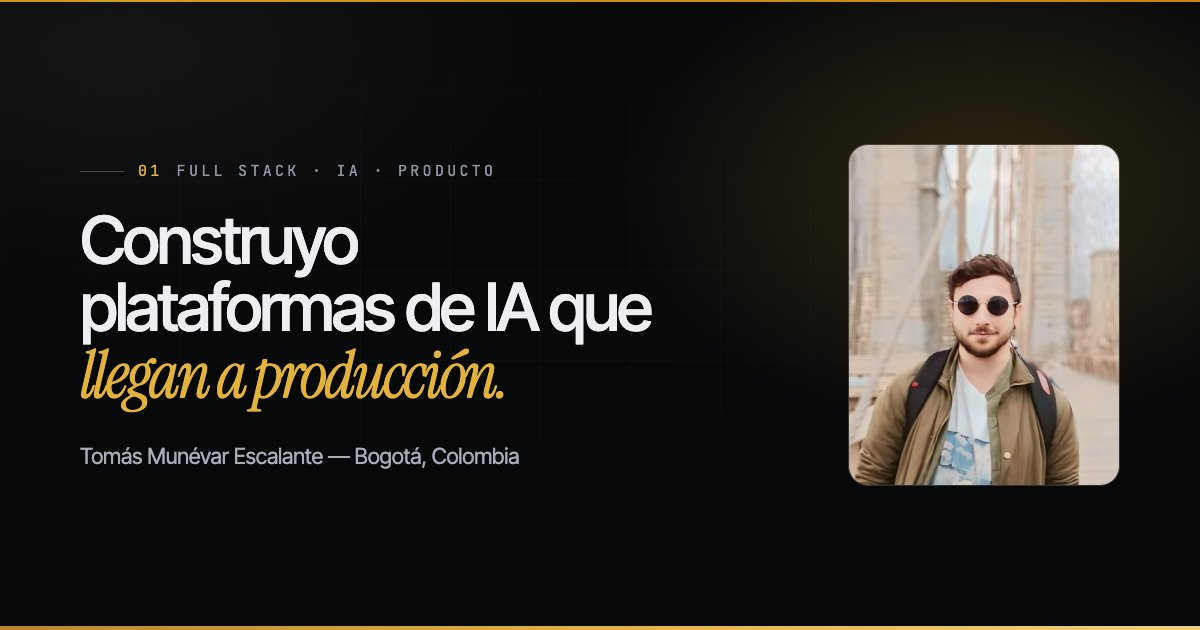
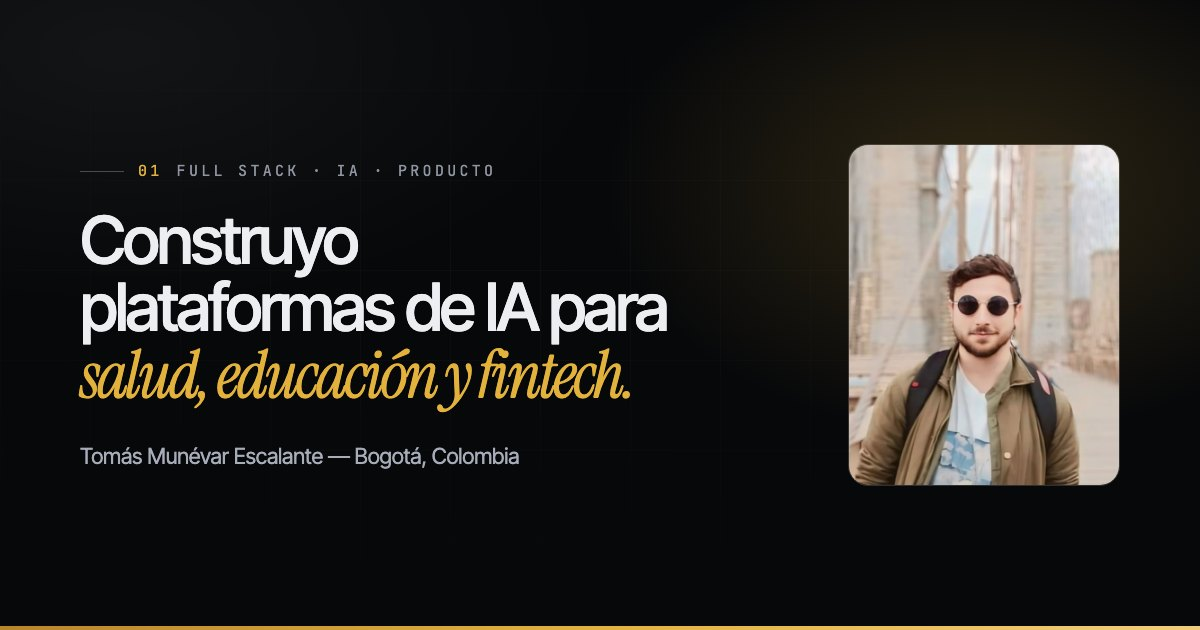
Bajar el tono: describir el trabajo en vez de calificarlo
"Construyo plataformas de IA que llegan a producción" presume de algo que los
proyectos de más abajo ya demuestran, y el "que llegan" da a entender que lo
normal es lo contrario. Ahora dice para qué sectores son: salud, educación y
fintech, que además le sirve a quien lee para ubicarlo de una.

El mismo tic estaba en tres sitios más y se quita en todos:
- "agentes de IA que hacen trabajo real" → "agentes de IA"
- "Agentes que hacen trabajo real, no demos." → fuera; el detalle técnico que
  sigue es la prueba
- "Plataformas reales, con usuarios reales." → fuera

Se regenera og.jpg, que llevaba el titular anterior incrustado.

Changed region(s): [[0.0617, 0.4524, 0.555, 0.6635], [0.0, 0.0, 1.0, 0.0302]]

diff --git a/src/data/content.js b/src/data/content.js
@@ -164,11 +164,11 @@ export const content = {
 
     hero: {
       eyebrow: 'Full Stack · IA · Producto',
-      titleA: 'Construyo plataformas de IA que ',
-      titleAccent: 'llegan a producción.',
+      titleA: 'Construyo plataformas de IA para ',
+      titleAccent: 'salud, educación y fintech.',
       titleB: '',
       roles: ['Full Stack Engineer', 'AI / LLM Engineer', 'Product Engineer'],
-      lede: '+4 años construyendo producto de punta a punta: TypeScript, agentes de IA que hacen trabajo real y la infraestructura que los mantiene en pie. Hoy trabajo con la Pontificia Universidad Javeriana, ConsiliumBots y Tether Studio en plataformas que usan gobiernos, colegios y clínicas.',
+      lede: '+4 años construyendo producto de punta a punta: TypeScript, agentes de IA y la infraestructura que los mantiene en pie. Hoy trabajo con la Pontificia Universidad Javeriana, ConsiliumBots y Tether Studio en plataformas que usan gobiernos, colegios y clínicas.',
       ctaWork: 'Ver el trabajo',
       ctaTalk: 'Hablemos',
       available: 'Abierto a roles senior · remoto',
@@ -215,7 +215,7 @@ export const content = {
       items: [
         {
           title: 'Sistemas de IA en producción',
-          body: 'Agentes que hacen trabajo real, no demos. Orquestación multi-modelo (Anthropic, OpenAI, Gemini) con LangChain y LangSmith, voz con Deepgram y ElevenLabs, versionado de prompts con diff y rollback, dry-run cuando falta un secreto y topes de gasto por día.',
+          body: 'Orquestación multi-modelo (Anthropic, OpenAI, Gemini) con LangChain y LangSmith, voz con Deepgram y ElevenLabs, versionado de prompts con diff y rollback, dry-run cuando falta un secreto y topes de gasto por día.',
           tags: ['LangChain', 'Anthropic', 'OpenAI', 'Gemini', 'Deepgram', 'ElevenLabs', 'RAG', 'Evals']
         },
         {
@@ -239,8 +239,7 @@ export const content = {
     work: {
       eyebrow: 'Trabajo seleccionado',
       title: 'Siete que valen la pena contar.',
-      subtitle:
-        'Plataformas reales, con usuarios reales. Algunas son código propietario: cuento lo que puedo contar.',
+      subtitle: 'Algunas son código propietario: cuento lo que puedo contar.',
       viewCase: 'Ver el caso',
       visit: 'Visitar sitio',
       repo: 'Repositorio',
@@ -482,11 +481,11 @@ export const content = {
 
     hero: {
       eyebrow: 'Full Stack · AI · Product',
-      titleA: 'I build AI platforms that ',
-      titleAccent: 'actually ship.',
+      titleA: 'I build AI platforms for ',
+      titleAccent: 'health, education and fintech.',
       titleB: '',
       roles: ['Full Stack Engineer', 'AI / LLM Engineer', 'Product Engineer'],
-      lede: '+4 years building product end to end: TypeScript, AI agents that do real work, and the infrastructure that keeps them standing. Today I work with Pontificia Universidad Javeriana, ConsiliumBots and Tether Studio on platforms used by governments, schools and clinics.',
+      lede: '+4 years building product end to end: TypeScript, AI agents, and the infrastructure that keeps them standing. Today I work with Pontificia Universidad Javeriana, ConsiliumBots and Tether Studio on platforms used by governments, schools and clinics.',
       ctaWork: 'See the work',
       ctaTalk: "Let's talk",
       available: 'Open to senior roles · remote',
@@ -533,7 +532,7 @@ export const content = {
       items: [
         {
           title: 'AI systems in production',
-          body: 'Agents that do real work, not demos. Multi-model orchestration (Anthropic, OpenAI, Gemini) with LangChain and LangSmith, voice with Deepgram and ElevenLabs, prompt versioning with diff and rollback, dry-run when a secret is missing, and daily spend caps.',
+          body: 'Multi-model orchestration (Anthropic, OpenAI, Gemini) with LangChain and LangSmith, voice with Deepgram and ElevenLabs, prompt versioning with diff and rollback, dry-run when a secret is missing, and daily spend caps.',
           tags: ['LangChain', 'Anthropic', 'OpenAI', 'Gemini', 'Deepgram', 'ElevenLabs', 'RAG', 'Evals']
         },
         {
@@ -557,7 +556,7 @@ export const content = {
     work: {
       eyebrow: 'Selected work',
       title: 'Seven worth talking about.',
-      subtitle: 'Real platforms with real users. Some are proprietary — I tell what I can tell.',
+      subtitle: 'Some are proprietary — I tell what I can tell.',
       viewCase: 'Read the case',
       visit: 'Visit site',
       repo: 'Repository',
